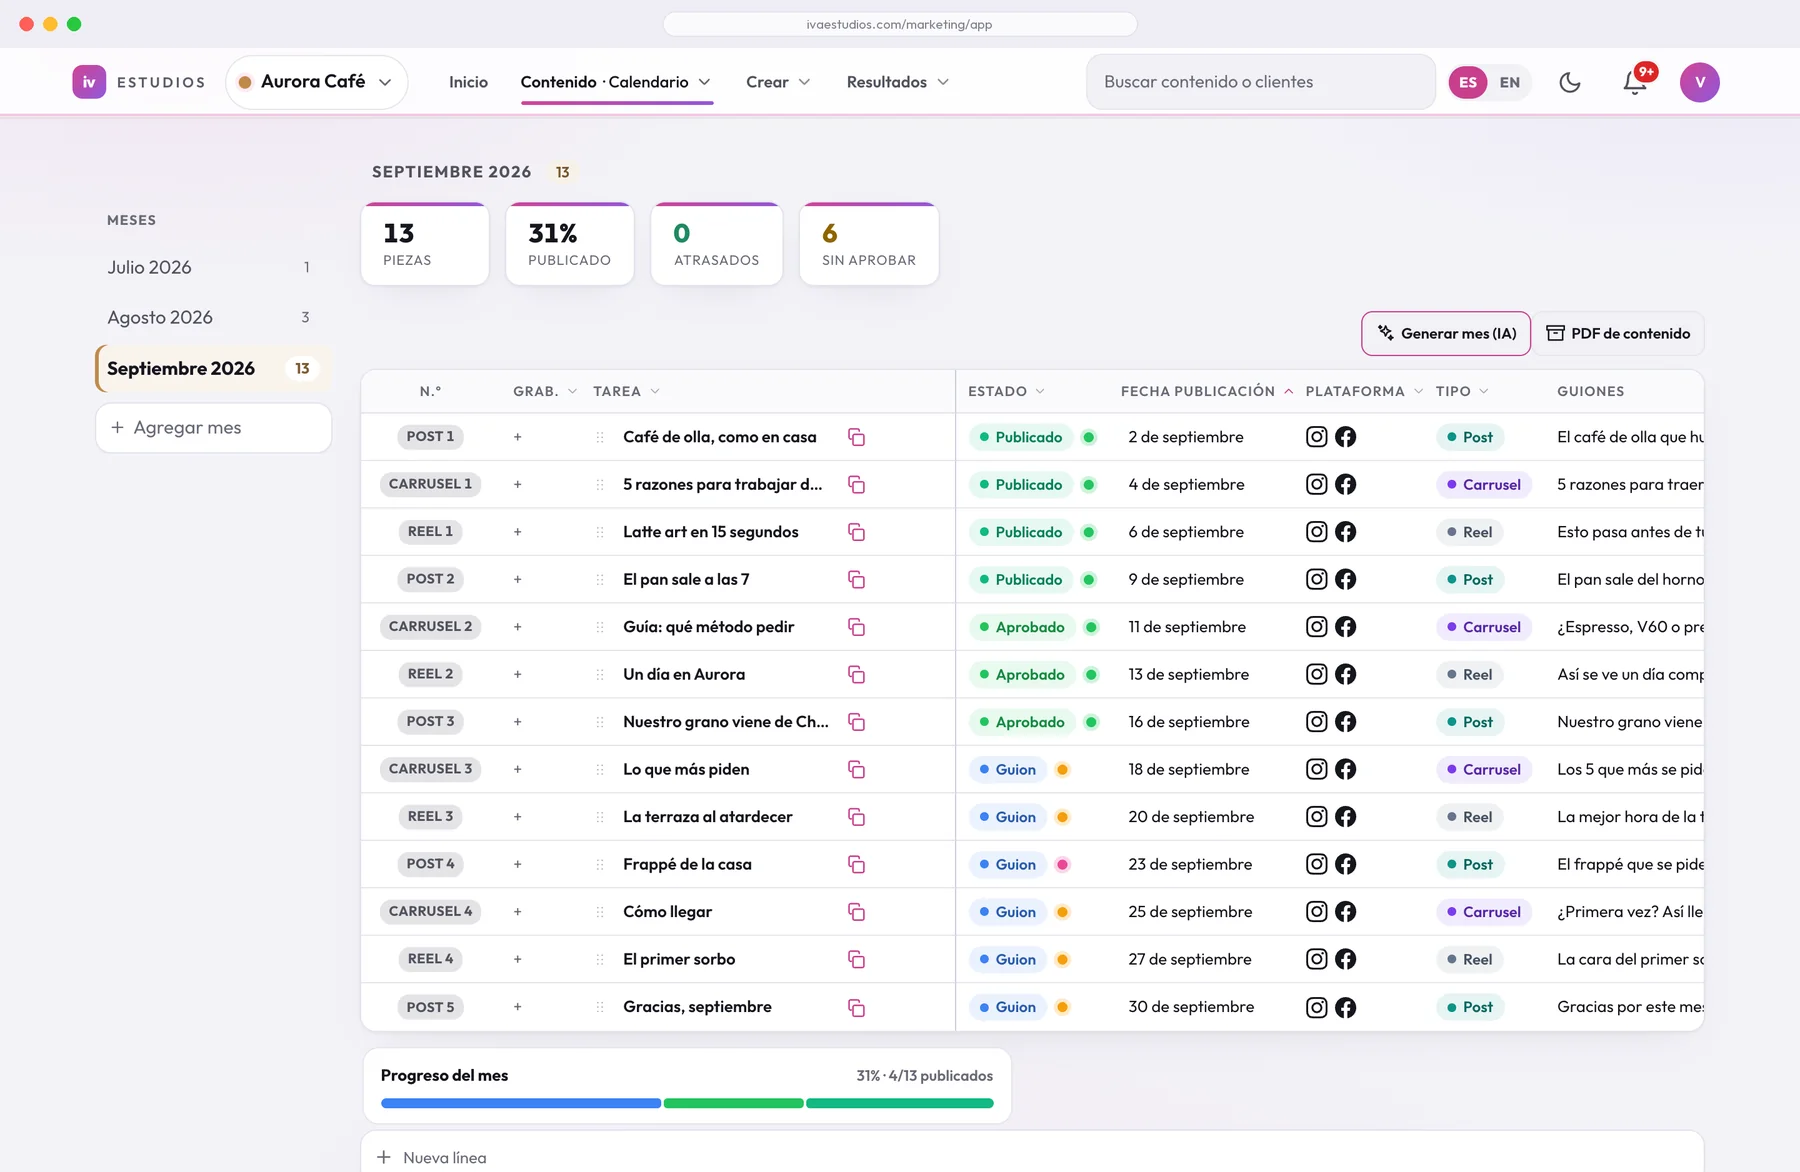
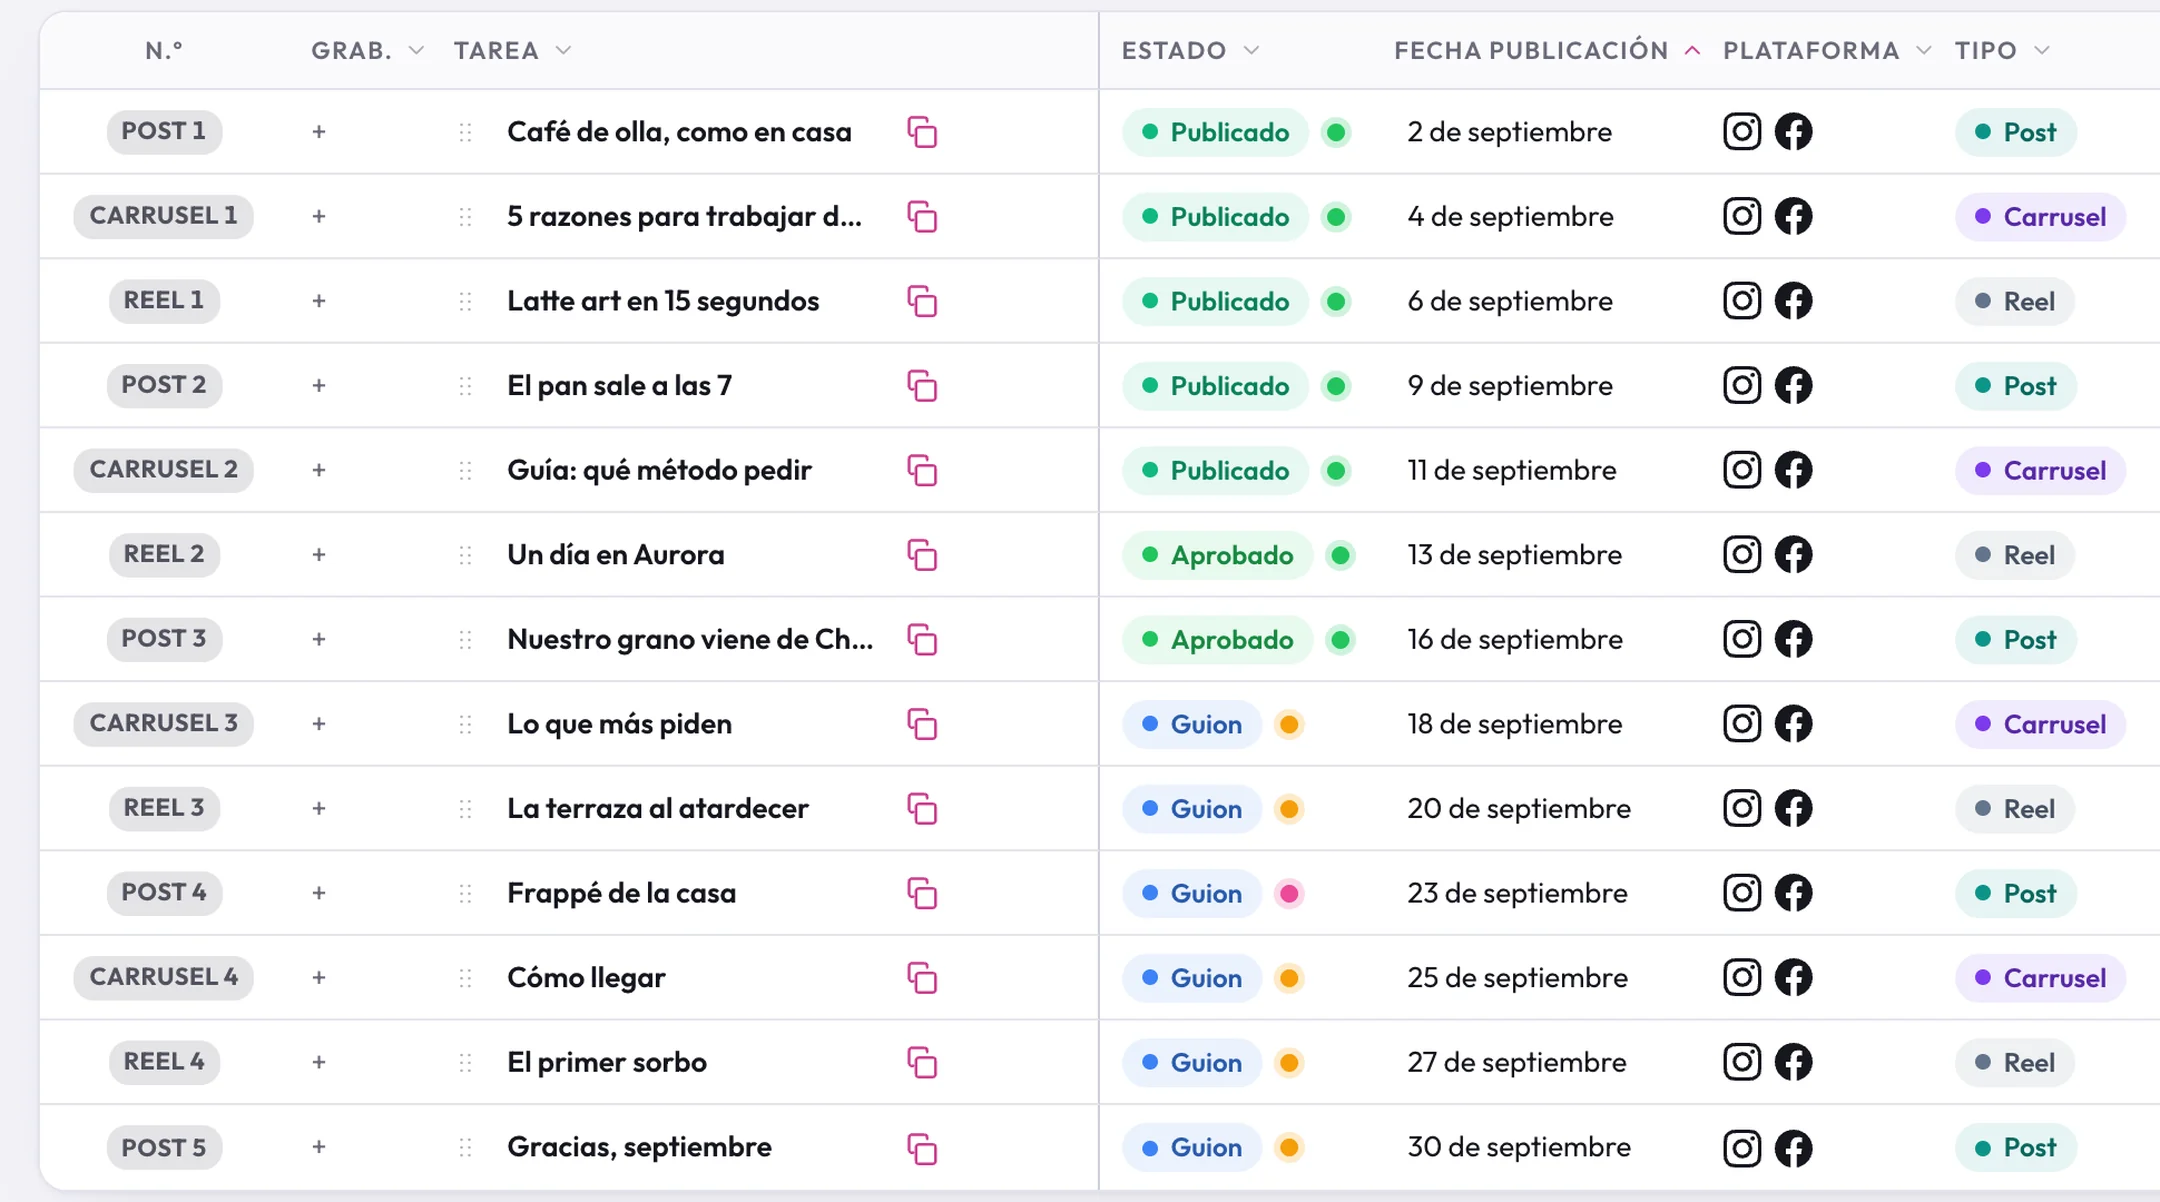
Arregla las capturas: salian DEFORMADAS y no se leian
Vianey vio la pagina en pantalla ancha: la captura de portada se comia toda
la pantalla, con la tabla cortada a la mitad. Eran tres fallas encadenadas.

1. DEFORMADAS. El reset traia `img{max-width:100%}` sin `height:auto`. Con
   width y height en el HTML y el ancho limitado por CSS, la imagen conservaba
   el alto del atributo y se estiraba a lo alto. Las seis capturas estaban
   deformadas.
2. FRANJA FANTASMA. `picture` es inline por defecto, asi que la caja medía
   51px mas que la imagen y dejaba una banda dentro del marco redondeado.
   Ahora es block.
3. NO SE LEIAN. A dos columnas cada captura quedaba en 600px: la app al 42%,
   ilegible. Y la tabla del mes mide 1725px con 12 columnas, no cabe nunca.

Como quedo:
- Portada: la CUADRICULA del mes (no se corta ninguna columna), en marco de
  navegador, cortada en el borde de una semana y con tope de alto para que no
  se coma la pantalla.
- Las secciones pasan a bloques anchos: la captura ocupa los 1152px y va
  recortada al detalle, asi la app se ve al 100% y se lee cada renglon.
- En telefono cada seccion usa la app en SU version movil, de borde a borde.
  Las tiras anchas a 390px eran un borron.
- El panel del guion se recapturo: la captura vieja decia "Conversacion" sin
  acento, justo lo que arreglamos ayer.

diff --git a/marketing/planes.html b/marketing/planes.html
@@ -9,10 +9,10 @@
 <link rel="canonical" href="https://ivaestudios.com/marketing/planes">
 <meta property="og:title" content="IVAE Marketing · Planes y precios">
 <meta property="og:description" content="Marcas ilimitadas en todos los planes. Solo pagas el almacenamiento. Empieza gratis.">
-<meta property="og:image" content="https://ivaestudios.com/marketing/img/planes/calendario.jpg">
+<meta property="og:image" content="https://ivaestudios.com/marketing/img/planes/cuadricula.jpg">
 <meta property="og:type" content="website">
 <link rel="apple-touch-icon" href="/marketing/icons/apple-touch-icon.png">
-<link rel="preload" as="image" href="/marketing/img/planes/calendario.webp" type="image/webp" media="(min-width:641px)">
+<link rel="preload" as="image" href="/marketing/img/planes/cuadricula.webp" type="image/webp" media="(min-width:641px)">
 <link rel="stylesheet" href="/marketing/css/fonts.css?v=202609111620">
 <style>
 :root{
@@ -31,7 +31,7 @@ html{scroll-behavior:smooth;overflow-x:clip}
 body{margin:0;background:var(--bg);color:var(--ink);
   font-family:'Outfit','Inter',-apple-system,BlinkMacSystemFont,'Segoe UI',sans-serif;
   font-size:17px;line-height:1.62;-webkit-font-smoothing:antialiased;overflow-x:hidden}
-img{max-width:100%;display:block}
+img{max-width:100%;height:auto;display:block}
 a{color:inherit}
 .wrap{max-width:var(--max);margin:0 auto;padding:0 24px}
 section{scroll-margin-top:86px;overflow-x:clip}
@@ -96,10 +96,13 @@ h1{font-size:clamp(37px,5.9vw,72px);line-height:1.04;letter-spacing:-.032em;marg
   font-size:14px;color:var(--mute)}
 .sellos span{display:inline-flex;align-items:center;gap:7px}
 .sellos svg{width:15px;height:15px;stroke:var(--ok);stroke-width:2.6;fill:none}
-.shot{position:relative;margin-top:58px;border-radius:var(--r-xl);overflow:hidden;
+.shot{display:block;position:relative;margin-top:58px;border-radius:var(--r-xl);overflow:hidden;
   border:1px solid var(--line);box-shadow:0 44px 90px -38px rgba(22,16,54,.44),0 6px 20px -12px rgba(22,16,54,.18)}
 .shot--libre{border:0;box-shadow:none;overflow:visible;border-radius:0}
 .hero .shot{animation:sube 1.15s var(--ease) .15s both}
+@media (min-width:641px){
+  .hero .shot img{max-height:min(66vh,720px);width:100%;object-fit:cover;object-position:top center}
+}
 @keyframes sube{from{opacity:0;transform:translateY(46px) scale(.975)}to{opacity:1;transform:none}}
 .hero__marco{position:relative;padding-bottom:8px}
 
@@ -123,6 +126,12 @@ h1{font-size:clamp(37px,5.9vw,72px);line-height:1.04;letter-spacing:-.032em;marg
 .feat p{color:var(--dim);margin:0 0 20px}
 .tick{list-style:none;padding:0;margin:0}
 .tick li{position:relative;padding-left:32px;margin-bottom:11px;color:var(--dim);font-size:16.5px}
+.bloque{margin-bottom:104px}
+.bloque:last-child{margin-bottom:0}
+.bloque__txt{max-width:730px;margin-bottom:36px}
+.bloque--der .bloque__txt{margin-left:auto}
+.bloque .tick{display:flex;flex-wrap:wrap;gap:10px 30px}
+.bloque .tick li{margin-bottom:0}
 .tick li svg{position:absolute;left:0;top:4px;width:19px;height:19px;stroke:#fff;stroke-width:3;fill:none;
   padding:3px;border-radius:50%;background:var(--grad);box-sizing:border-box}
 
@@ -258,6 +267,11 @@ footer a:hover{color:var(--ink)}
   .lk{display:none}
   .desliza{display:block;text-align:center;color:var(--mute);font-size:13.5px;margin:14px 0 0}
   .shot{border-radius:var(--r-lg)}
+  .bloque .shot,.hero .shot{border:0;box-shadow:none;border-radius:0}
+  /* el movil de la captura se ve a tamaño casi real si la imagen va de borde a borde */
+  .bloque .shot,.hero .shot,.feat .shot{width:100vw;max-width:none;margin-left:calc(50% - 50vw)}
+  .feat .shot{border:0;box-shadow:none;border-radius:0}
+  .bloque__txt{margin-bottom:18px}
   [data-rev="izq"],[data-rev="der"]{transform:translateY(28px)}
   .tira{margin-top:66px}
 }
@@ -309,10 +323,10 @@ footer a:hover{color:var(--ink)}
     </p>
     <div class="hero__marco">
       <picture class="shot">
-        <source media="(max-width:640px)" srcset="/marketing/img/planes/calendario-movil.webp" type="image/webp">
-        <source media="(max-width:640px)" srcset="/marketing/img/planes/calendario-movil.jpg" type="image/jpeg">
-        <source srcset="/marketing/img/planes/calendario.webp" type="image/webp">
-        <img src="/marketing/img/planes/calendario.jpg" width="1800" height="1172" fetchpriority="high" alt="Calendario mensual de IVAE Marketing con las piezas del mes, su estado y su fecha de publicación">
+        <source media="(max-width:640px)" srcset="/marketing/img/planes/portada-movil.webp" type="image/webp">
+        <source media="(max-width:640px)" srcset="/marketing/img/planes/portada-movil.jpg" type="image/jpeg">
+        <source srcset="/marketing/img/planes/cuadricula.webp" type="image/webp">
+        <img src="/marketing/img/planes/cuadricula.jpg" width="1800" height="1107" fetchpriority="high" alt="Cuadrícula del mes de IVAE Marketing con las piezas repartidas por día y su estado">
       </picture>
     </div>
   </div>
@@ -335,8 +349,8 @@ footer a:hover{color:var(--ink)}
       <p class="sub">Se acabaron las cadenas de WhatsApp, las hojas de cálculo y el "¿en qué quedamos?".</p>
     </div>
 
-    <div class="feat">
-      <div class="feat__txt" data-rev="izq">
+    <div class="bloque " data-rev>
+      <div class="bloque__txt">
         <h3>Todo el mes, de un vistazo</h3>
         <p>Cada pieza con su fecha, su formato, su estado y quién la va a grabar.</p>
         <ul class="tick">
@@ -345,14 +359,16 @@ footer a:hover{color:var(--ink)}
           <li><svg viewBox="0 0 24 24"><path d="M20 6 9 17l-5-5"/></svg>Copia el mes anterior y ajusta</li>
         </ul>
       </div>
-      <picture class="shot" style="margin:0" data-rev="esc">
-        <source srcset="/marketing/img/planes/cuadricula.webp" type="image/webp">
-        <img src="/marketing/img/planes/cuadricula.jpg" width="1800" height="1172" loading="lazy" alt="Vista de cuadrícula mensual con las piezas repartidas por día">
+      <picture class="shot">
+        <source media="(max-width:640px)" srcset="/marketing/img/planes/calendario-movil.webp" type="image/webp">
+        <source media="(max-width:640px)" srcset="/marketing/img/planes/calendario-movil.jpg" type="image/jpeg">
+        <source srcset="/marketing/img/planes/calendario.webp" type="image/webp">
+        <img src="/marketing/img/planes/calendario.jpg" width="2160" height="1202" loading="lazy" alt="Lista del mes con cada pieza, su estado, su fecha de publicación y su plataforma">
       </picture>
     </div>
 
-    <div class="feat feat--flip">
-      <div class="feat__txt" data-rev="der">
+    <div class="bloque bloque--der" data-rev>
+      <div class="bloque__txt">
         <h3>El guion completo, listo para copiar</h3>
         <p>Gancho, desarrollo, cierre, caption con emojis, hashtags y texto alternativo. Se copia y se pega en Instagram sin retoques.</p>
         <ul class="tick">
@@ -361,9 +377,11 @@ footer a:hover{color:var(--ink)}
           <li><svg viewBox="0 0 24 24"><path d="M20 6 9 17l-5-5"/></svg>Checklist por pieza</li>
         </ul>
       </div>
-      <picture class="shot" style="margin:0" data-rev="esc">
+      <picture class="shot shot--libre">
+        <source media="(max-width:640px)" srcset="/marketing/img/planes/guion-movil.webp" type="image/webp">
+        <source media="(max-width:640px)" srcset="/marketing/img/planes/guion-movil.jpg" type="image/jpeg">
         <source srcset="/marketing/img/planes/guion.webp" type="image/webp">
-        <img src="/marketing/img/planes/guion.jpg" width="1400" height="1340" loading="lazy" alt="Editor de una pieza con el guion: gancho, desarrollo, cierre, caption y hashtags">
+        <img src="/marketing/img/planes/guion.jpg" width="2160" height="1560" loading="lazy" alt="Guion de una pieza con gancho, desarrollo, cierre y el caption listo para Instagram">
       </picture>
     </div>
 
@@ -377,14 +395,14 @@ footer a:hover{color:var(--ink)}
           <li><svg viewBox="0 0 24 24"><path d="M20 6 9 17l-5-5"/></svg>Avisos al teléfono cuando hay algo nuevo</li>
         </ul>
       </div>
-      <picture class="shot shot--libre" style="margin:0" data-rev="esc">
+      <picture class="shot shot--libre" data-rev="esc">
         <source srcset="/marketing/img/planes/cliente.webp" type="image/webp">
-        <img src="/marketing/img/planes/cliente.jpg" width="2000" height="1340" loading="lazy" alt="La vista del cliente en computadora y en teléfono, con el aviso de cinco piezas por revisar">
+        <img src="/marketing/img/planes/cliente.jpg" width="900" height="1818" loading="lazy" alt="La vista del cliente en su teléfono, con el aviso de cinco piezas por revisar">
       </picture>
     </div>
 
-    <div class="feat feat--flip">
-      <div class="feat__txt" data-rev="der">
+    <div class="bloque " data-rev>
+      <div class="bloque__txt">
         <h3>Los reels terminados, en su lugar</h3>
         <p>Subes el reel final o la tira del carrusel y queda guardado por mes. Tu cliente lo ve, lo descarga y te deja ahí mismo el comentario.</p>
         <ul class="tick">
@@ -393,27 +411,32 @@ footer a:hover{color:var(--ink)}
           <li><svg viewBox="0 0 24 24"><path d="M20 6 9 17l-5-5"/></svg>Puedes apagar la descarga por marca</li>
         </ul>
       </div>
-      <picture class="shot" style="margin:0" data-rev="esc">
+      <picture class="shot">
+        <source media="(max-width:640px)" srcset="/marketing/img/planes/entregables-movil.webp" type="image/webp">
+        <source media="(max-width:640px)" srcset="/marketing/img/planes/entregables-movil.jpg" type="image/jpeg">
         <source srcset="/marketing/img/planes/entregables.webp" type="image/webp">
-        <img src="/marketing/img/planes/entregables.jpg" width="1800" height="1060" loading="lazy" alt="Sección de entregables con los reels del mes y el botón para descargarlos todos">
+        <img src="/marketing/img/planes/entregables.jpg" width="2160" height="685" loading="lazy" alt="Los reels finales del mes, con su botón de descarga y el espacio para comentarios del cliente">
       </picture>
     </div>
 
-    <div class="feat">
-      <div class="feat__txt" data-rev="izq">
+    <div class="bloque bloque--der" data-rev>
+      <div class="bloque__txt">
         <h3>Sabes en qué va cada pieza</h3>
-        <p>Del borrador a publicado, con el tablero que usa tu equipo y el resumen que le enseñas al cliente.</p>
+        <p>Del borrador a publicado, con el resumen que abres cada mañana y el tablero que usa tu equipo.</p>
         <ul class="tick">
-          <li><svg viewBox="0 0 24 24"><path d="M20 6 9 17l-5-5"/></svg>Tablero por etapa: guion, grabación, edición, revisión</li>
-          <li><svg viewBox="0 0 24 24"><path d="M20 6 9 17l-5-5"/></svg>Resumen del mes y piezas por aprobar</li>
+          <li><svg viewBox="0 0 24 24"><path d="M20 6 9 17l-5-5"/></svg>Por aprobar, esta semana y atrasados</li>
+          <li><svg viewBox="0 0 24 24"><path d="M20 6 9 17l-5-5"/></svg>Avance por etapa del mes</li>
           <li><svg viewBox="0 0 24 24"><path d="M20 6 9 17l-5-5"/></svg>Historial de quién hizo qué y cuándo</li>
         </ul>
       </div>
-      <picture class="shot" style="margin:0" data-rev="esc">
+      <picture class="shot">
+        <source media="(max-width:640px)" srcset="/marketing/img/planes/inicio-movil.webp" type="image/webp">
+        <source media="(max-width:640px)" srcset="/marketing/img/planes/inicio-movil.jpg" type="image/jpeg">
         <source srcset="/marketing/img/planes/inicio.webp" type="image/webp">
-        <img src="/marketing/img/planes/inicio.jpg" width="1800" height="1172" loading="lazy" alt="Pantalla de inicio con el resumen del mes, piezas por aprobar y avance por etapa">
+        <img src="/marketing/img/planes/inicio.jpg" width="2160" height="873" loading="lazy" alt="Resumen del mes con las piezas por aprobar, las de esta semana y el avance por etapa">
       </picture>
     </div>
+
   </div>
 </section>
 
